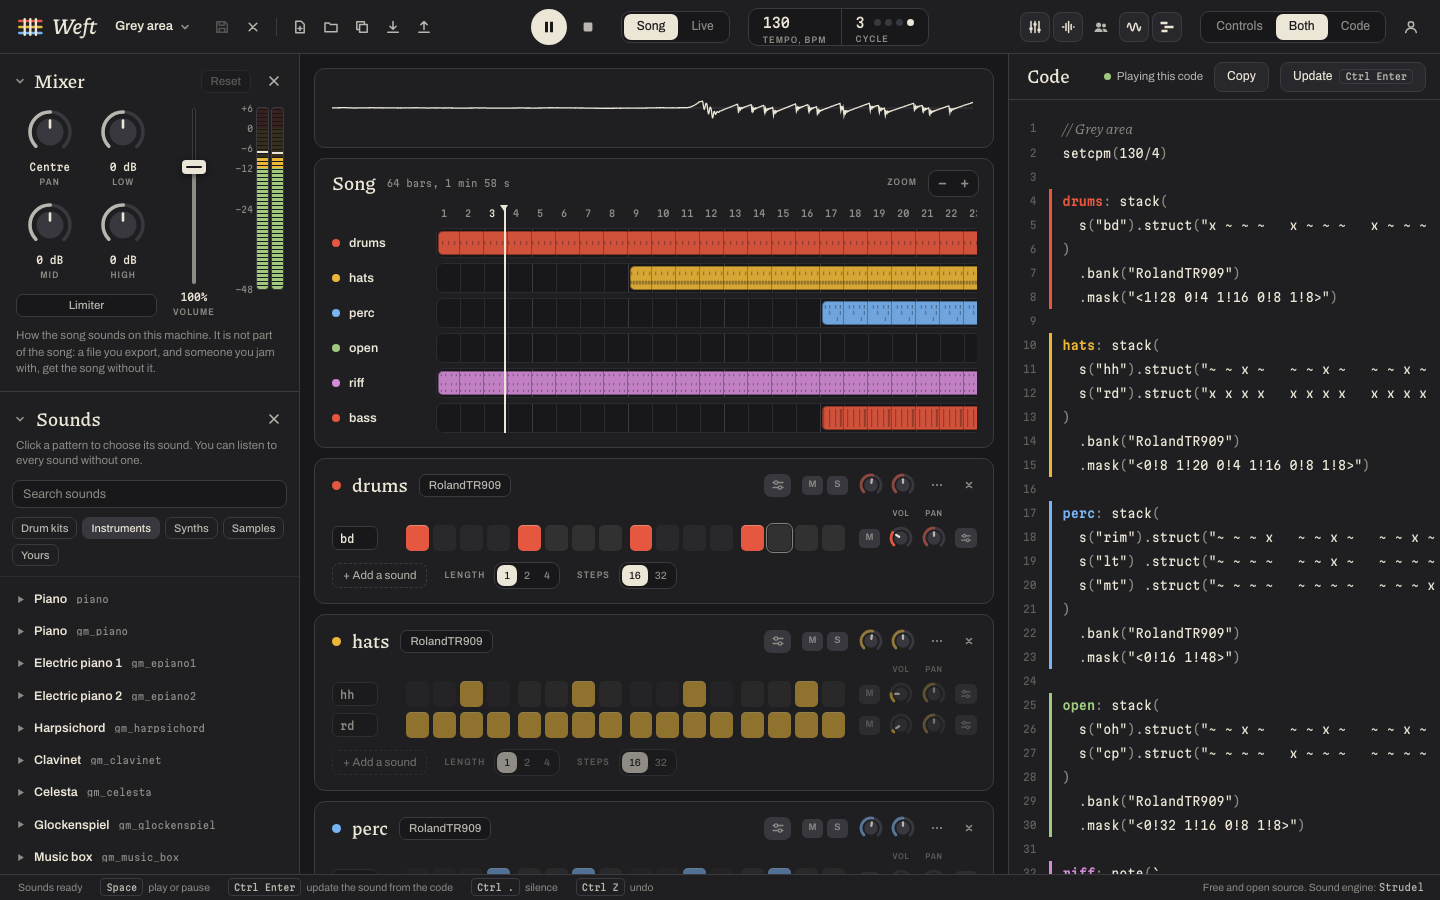
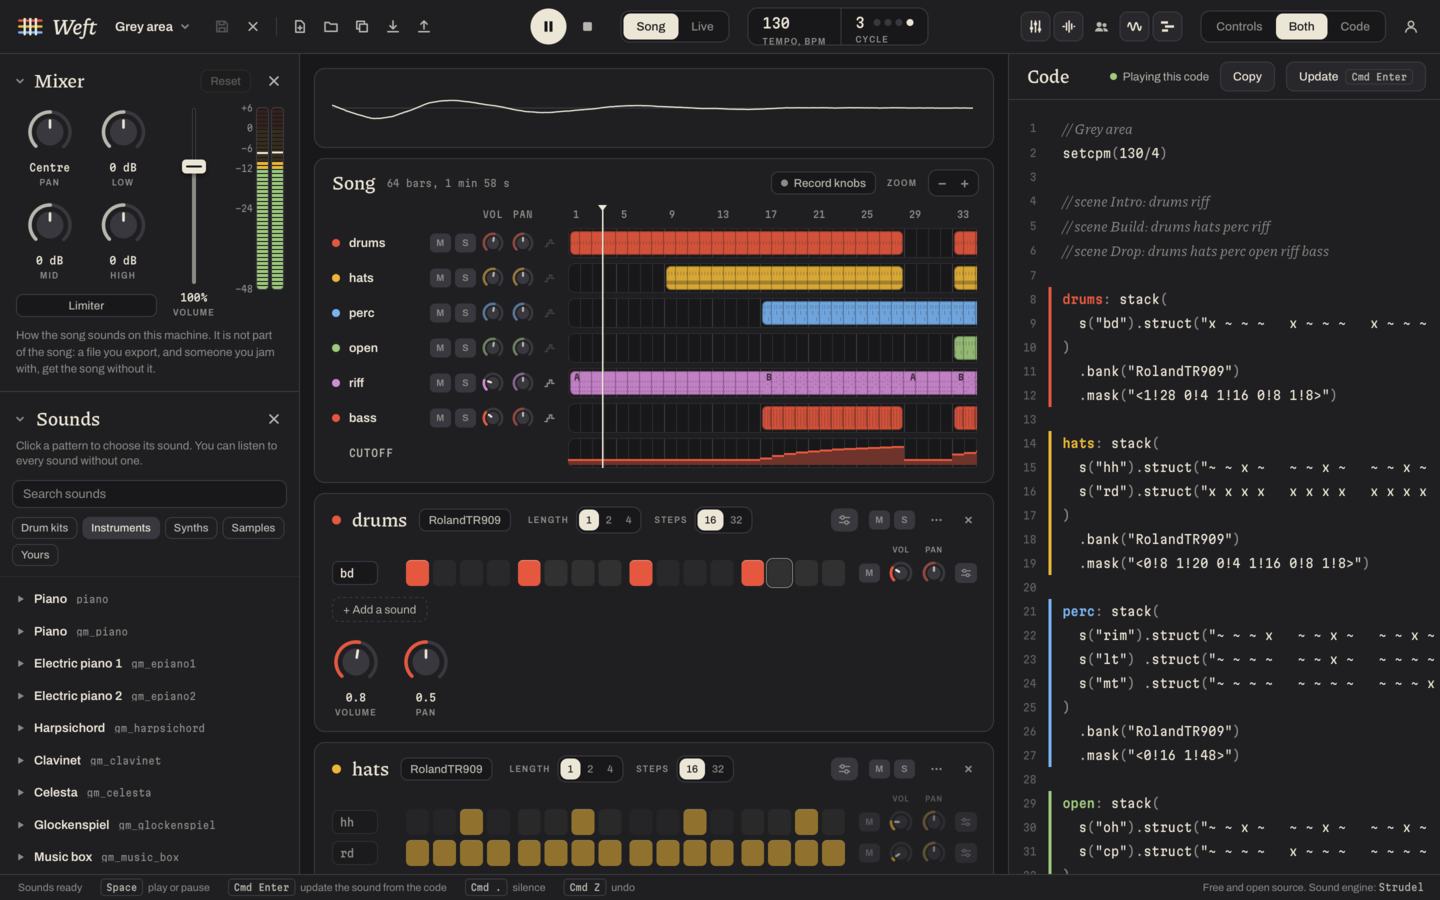
feat: new pictures of the app on the first page and in the readme
The three pictures showed the app as it was at 0.1.1. They now show the
Song panel with a control on every row, a knob drawn over the song, a
pattern with versions and the knobs under its roll.

They are taken at twice the size, so they are sharp on a dense screen,
and kept as WebP, which makes them no larger than the old ones were. The
first one is also kept as a PNG at the old size for wherever the site's
address is pasted, since not every such place reads WebP.

diff --git a/server/pages.ts b/server/pages.ts
@@ -259,15 +259,15 @@ export function homePage(around: Around, songs: Listed[], builds: Build[]): stri
         <div class="shots" data-shots>
             <div class="shots-row" tabindex="0" aria-label="Pictures of the app, three of them, side by side">
                 <figure id="shot-1">
-                    <img src="/app-1.png" width="1440" height="900" alt="The Weft window while a song plays: the mixer and the sounds on the left, drum grids in the middle, the song's code on the right.">
-                    <figcaption>Grids and knobs in the middle, the code on the right. They are the same song.</figcaption>
+                    <img src="/app-1.webp" width="1440" height="900" alt="The Weft window while a song plays: the mixer and the sounds on the left, the song laid out bar by bar and a drum grid in the middle, the song's code on the right.">
+                    <figcaption>The song bar by bar, grids and knobs under it, the code on the right. They are the same song.</figcaption>
                 </figure>
                 <figure id="shot-2">
-                    <img src="/app-2.png" width="1440" height="900" loading="lazy" alt="A melody drawn as notes in a piano roll, with the controls of its sound open under it.">
+                    <img src="/app-2.webp" width="1440" height="900" loading="lazy" alt="A melody drawn as notes in a piano roll, with the controls of its sound open under it and the list of instruments beside it.">
                     <figcaption>Draw a melody as notes, and shape its sound with a knob for every number.</figcaption>
                 </figure>
                 <figure id="shot-3">
-                    <img src="/app-3.png" width="1440" height="900" loading="lazy" alt="Two people in a jam on one song: who they are, what they wrote to each other, and which pattern the other one just changed.">
+                    <img src="/app-3.webp" width="1440" height="900" loading="lazy" alt="Two people in a jam on one song: who they are, what they wrote to each other, and which pattern the other one just changed.">
                     <figcaption>Jam with someone on one song, with chat, voice and a camera.</figcaption>
                 </figure>
             </div>

diff --git a/tests/unit/site-pages.test.ts b/tests/unit/site-pages.test.ts
@@ -68,7 +68,7 @@ describe('the first page', () => {
         expect(html).toContain(`<path id="w-${made[4].id}" vector-effect="non-scaling-stroke" d="M2 17.8V22.2`)
         expect(html).toContain(`href="/songs/${made[4].id}.weft" aria-label="Download Five as a .weft file"`)
         expect(html).toContain('<span class="num">120 bpm</span>')
-        expect(html.match(/<img src="\/app-[123]\.png" width="1440" height="900"/g)).toHaveLength(3)
+        expect(html.match(/<img src="\/app-[123]\.webp" width="1440" height="900"/g)).toHaveLength(3)
         expect(html).not.toContain(made[3].id)
     })
 
@@ -555,8 +555,9 @@ describe('the files that are the same for everyone', () => {
             ['/site.css', 'text/css; charset=utf-8', 'public, max-age=3600'],
             ['/site.js', 'text/javascript; charset=utf-8', 'public, max-age=3600'],
             ['/app-1.png', 'image/png', 'public, max-age=3600'],
-            ['/app-2.png', 'image/png', 'public, max-age=3600'],
-            ['/app-3.png', 'image/png', 'public, max-age=3600'],
+            ['/app-1.webp', 'image/webp', 'public, max-age=3600'],
+            ['/app-2.webp', 'image/webp', 'public, max-age=3600'],
+            ['/app-3.webp', 'image/webp', 'public, max-age=3600'],
             ['/fonts/archivo-latin-wdth-normal.woff2', 'font/woff2', 'public, max-age=2592000'],
             ['/fonts/martian-mono-latin-wdth-normal.woff2', 'font/woff2', 'public, max-age=2592000'],
             ['/fonts/piazzolla-latin-opsz-italic.woff2', 'font/woff2', 'public, max-age=2592000'],

diff --git a/server/site.ts b/server/site.ts
@@ -242,7 +242,10 @@ function fixedFiles(): Map<string, Kind> {
     const own = (path: string, type: string) => files.set(path, { bytes: readFileSync(join(HERE, 'assets', path.slice(1))), type, kept: KEPT_AN_HOUR })
     own('/site.css', 'text/css; charset=utf-8')
     own('/site.js', 'text/javascript; charset=utf-8')
-    for (const picture of ['/app-1.png', '/app-2.png', '/app-3.png']) own(picture, 'image/png')
+    // The first picture is also there as a PNG: it is what is shown where the site's address is
+    // pasted, and not every place that shows such a picture can read the other kind.
+    own('/app-1.png', 'image/png')
+    for (const picture of ['/app-1.webp', '/app-2.webp', '/app-3.webp']) own(picture, 'image/webp')
     own('/icon.svg', 'image/svg+xml')
     for (const [family, names] of Object.entries(FONTS)) {
         const dir = packageDir(`@fontsource-variable/${family}`)

diff --git a/README.md b/README.md
@@ -2,19 +2,20 @@
 
 A free, open-source desktop app for making music with [Strudel](https://strudel.cc). Every pattern of a song is shown twice: as controls and as Strudel code. The code is the song; the controls read it and rewrite it, so you can make a whole song without writing any, and read or change the code whenever you want to.
 
-![The Weft window while a song plays: the mixer and the sounds on the left, drum grids in the middle, the song's code on the right.](server/assets/app-1.png)
+![The Weft window while a song plays: the mixer and the sounds on the left, the song laid out bar by bar and a drum grid in the middle, the song's code on the right.](server/assets/app-1.webp)
 
 - Step grids for drums, piano rolls for notes, and a knob for every number in the code.
 - A browser for trying and choosing sounds, and for recording or bringing in your own.
-- A playlist where you choose the bars each pattern plays in.
+- A Song panel where you choose the bars each pattern plays in, draw a knob over the song bar by bar, and give a pattern versions for the verse and the chorus.
+- Scenes for playing a song live, and notes played in from the computer's keyboard.
 - A mixer with volume, pan, tone, a limiter and level meters.
-- Export as a sound file, as code, or as one `.weft` file that holds the song and its sounds.
-- Jams: two people on one song at once, each on their own machine, with chat and voice.
+- Export as a sound file, as a file for each pattern, as code, or as one `.weft` file that holds the song and its sounds.
+- Jams: two people on one song at once, each on their own machine, with chat, voice and a camera.
 - Publishing songs to the site, where others can listen and open a copy.
 
 <p>
-<img src="server/assets/app-2.png" width="49%" alt="A melody drawn as notes in a piano roll, with the controls of its sound open under it.">
-<img src="server/assets/app-3.png" width="49%" alt="Two people in a jam on one song: who they are, what they wrote to each other, and which pattern the other one just changed.">
+<img src="server/assets/app-2.webp" width="49%" alt="A melody drawn as notes in a piano roll, with the controls of its sound open under it and the list of instruments beside it.">
+<img src="server/assets/app-3.webp" width="49%" alt="Two people in a jam on one song: who they are, what they wrote to each other, and which pattern the other one just changed.">
 </p>
 
 ## Run it
